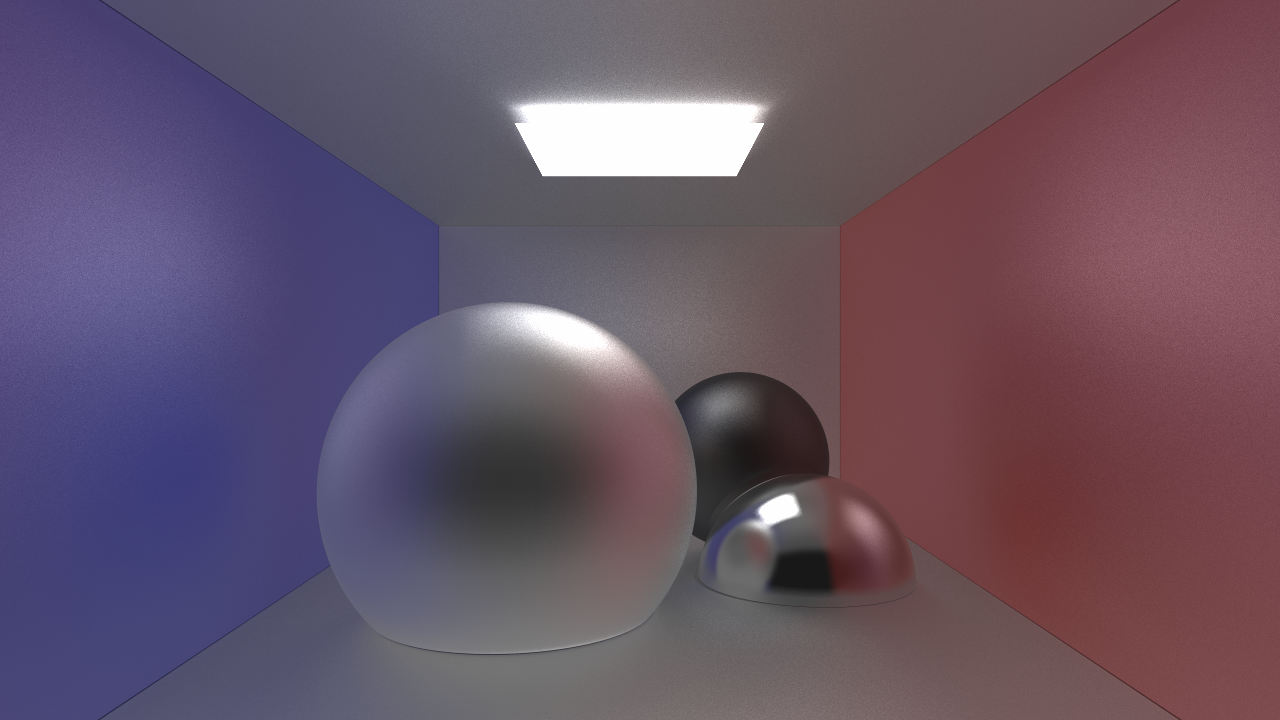
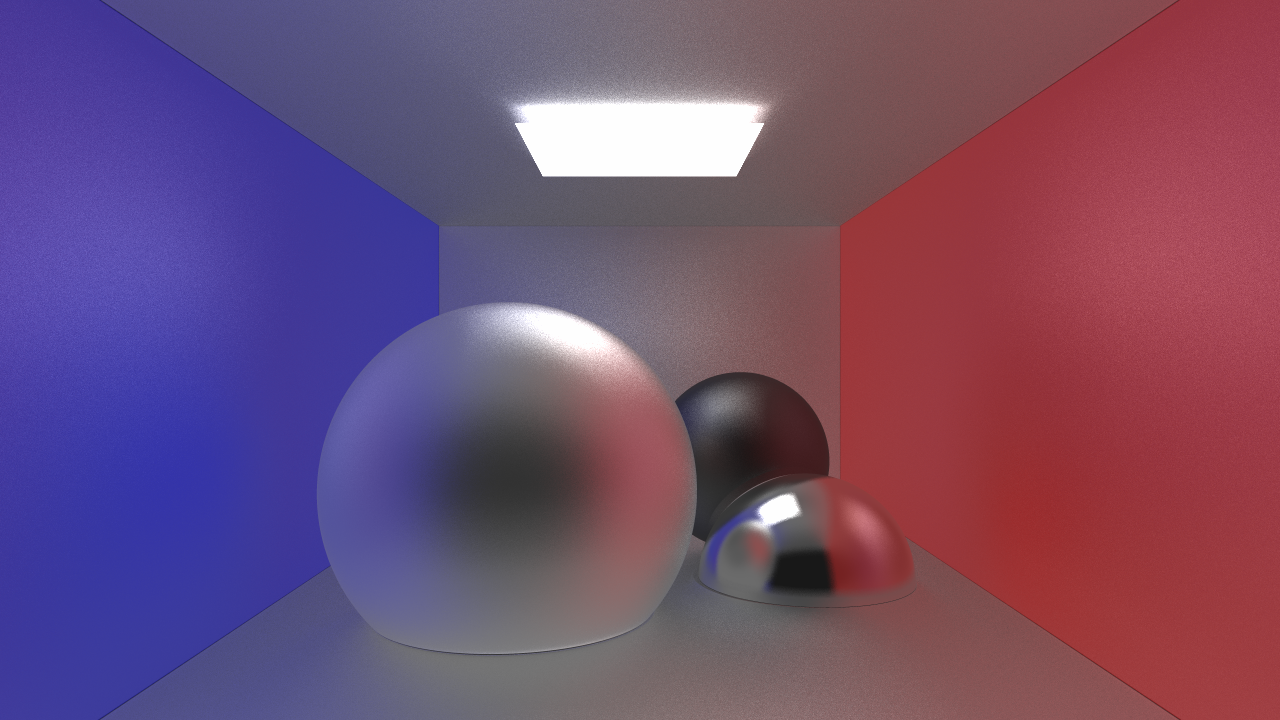
Scatter Reduction

diff --git a/camera.h b/camera.h
@@ -19,8 +19,9 @@ private:
     /// @param scene active scene
     /// @param bounces How many times the ray can bounce before it is interrupted
     /// @param scatter Into how many rays does the ray scatter on impact?
+    /// @param scatterreduction How many scatter rays to lose after each bounce
     /// @return
-    Vec3 FullTrace(LightRay lr, int bounces, int scatter)
+    Vec3 FullTrace(LightRay lr, int bounces, int scatter, int scatterreduction)
     {
         // Check Object Collisions
         Object *closestObject;
@@ -61,11 +62,11 @@ private:
             {
                 Vec3 reflected = closestCollision.incoming_direction.mirrorToNormalized(closestCollision.normal) + Vec3{0, 0, 0}.scatter(diffuse, &rng_seed);
                 reflected = reflected.normalized();
-                Vec3 hit_color = (closestObject->mat.color * (1 - intensity)) + (FullTrace(LightRay(closestCollision.point, reflected), bounces - 1, scatter) * intensity);
+                Vec3 hit_color = (closestObject->mat.color * (1 - intensity)) + (FullTrace(LightRay(closestCollision.point, reflected), bounces - 1, scatter - scatterreduction, scatterreduction) * intensity);
                 resColor = resColor + hit_color;
             }
 
-            return resColor * (1.0f / scatter);
+            return (closestObject->mat.color * (scatter <= 0)) + ((resColor * (1.0f / scatter)) * (scatter > 0));
         }
         else
         {
@@ -342,7 +343,7 @@ public:
 
     Vec3 kernel_scattertest(int x, int y)
     {
-        return FullTrace(GenerateRayFromPixel(x, y), 5, 10);
+        return FullTrace(GenerateRayFromPixel(x, y), 5, 10, 0);
     }
 
     Vec3 kernel_full(int x, int y)
@@ -354,7 +355,7 @@ public:
             {
                 float subpixel_x = (float)x + (static_cast<float>(i) / renderSettings.supersampling_steps);
                 float subpixel_y = (float)y + (static_cast<float>(j) / renderSettings.supersampling_steps);
-                final_color = final_color + FullTrace(GenerateRayFromPixel(subpixel_x, subpixel_y), 3, 5);
+                final_color = final_color + FullTrace(GenerateRayFromPixel(subpixel_x, subpixel_y), 3, 10, 2);
             }
         }
         return final_color * (1.0f / (renderSettings.supersampling_steps * renderSettings.supersampling_steps));

diff --git a/main.cpp b/main.cpp
@@ -16,8 +16,8 @@ int main()
     Scene testscene = Scene("./Documentation/test.scene");
 
     Material test_emissive = Material("testemi", Vec3(2.0, 2.0, 2.0), 0.3, -1);
-    Material test_blue = Material("testblue", Vec3(0.1, 0.1, 1), 0.8, 0.5);
-    Material test_red = Material("testred", Vec3(1, 0.1, 0.1), 0.8, 0.5);
+    Material test_blue = Material("testblue", Vec3(0.1, 0.1, 1), 0.6, 0.5);
+    Material test_red = Material("testred", Vec3(1, 0.1, 0.1), 0.6, 0.5);
     Material test_white = Material("testwhite", Vec3(1, 1, 1), 0.8, 0.5);
     Material test_mirror = Material("testmirror", Vec3(1, 1, 1), 0.9, 0.1);
     Material test_black = Material("testblack", Vec3(0.1, 0.1, 0.1), 0.4, 0.6);
